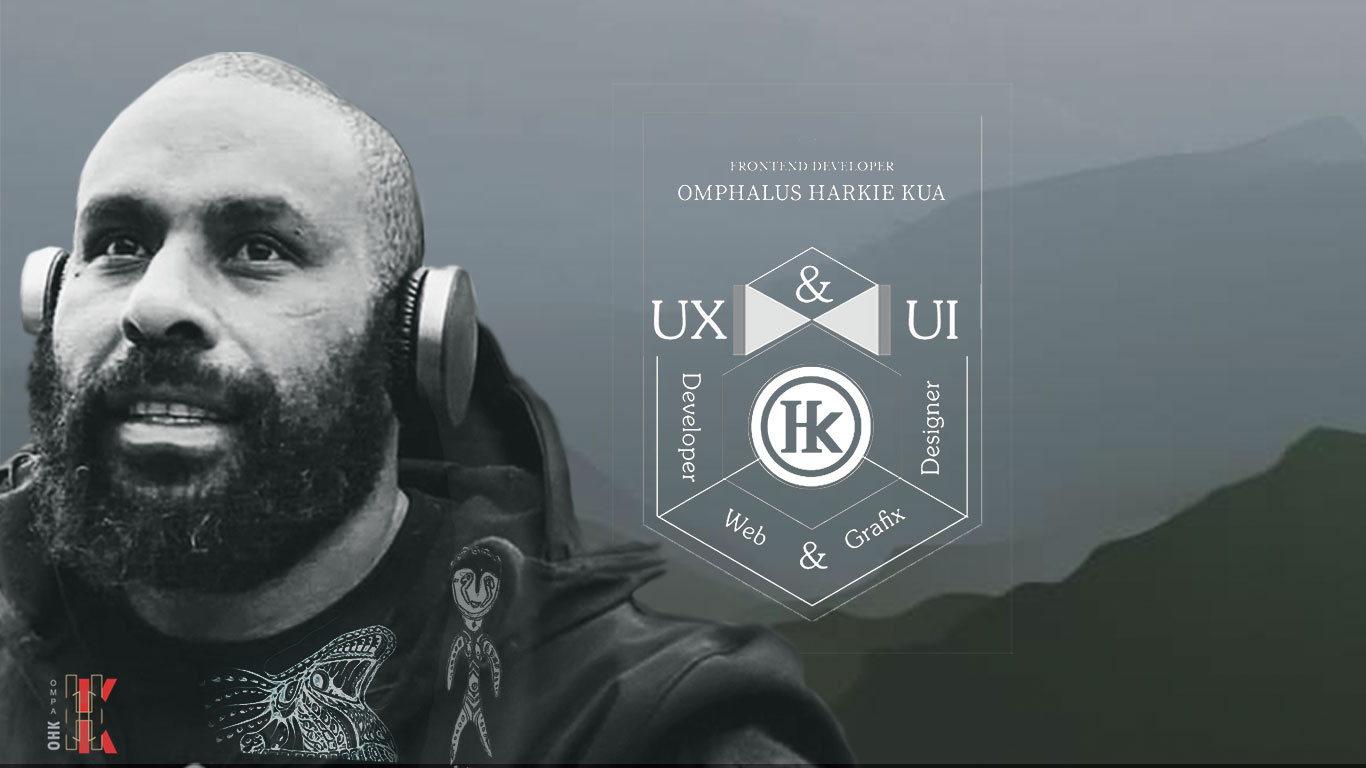
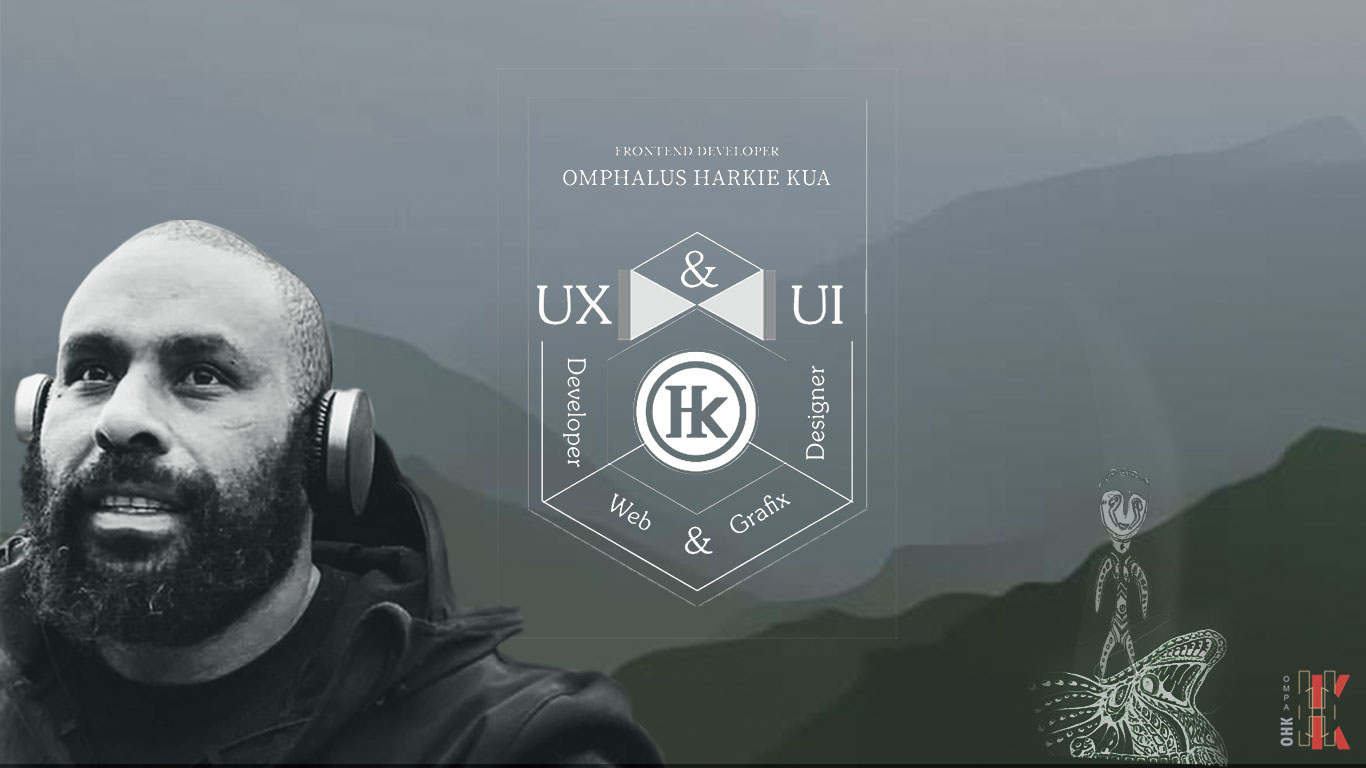
Updates

diff --git a/css/main.css b/css/main.css
@@ -53,9 +53,6 @@
       padding-bottom: 4rem; } }
   .content-wrapper .home__box-one {
     width: 100%;
-    background: repeating-linear-gradient(45deg, #ffffff, #f1f2ec 100px), url(../img/pattern.jpg) center center;
-    background-size: cover;
-    background-repeat: no-repeat;
     display: -webkit-box;
     display: -ms-flexbox;
     display: flex;
@@ -63,10 +60,14 @@
     -webkit-box-direction: normal;
         -ms-flex-direction: column;
             flex-direction: column;
-    justify-self: center; }
+    justify-self: center;
+    margin-top: -2rem; }
     @media only screen and (device-width: 1rem), screen and (orientation: landscape) {
       .content-wrapper .home__box-one {
         padding: 0 5.5rem; } }
+    @media only screen and (min-width: 1025px) and (orientation: landscape) {
+      .content-wrapper .home__box-one {
+        margin-top: -5.5rem; } }
     .content-wrapper .home__box-one .spear {
       width: 100%;
       -ms-flex-item-align: center;
@@ -77,19 +78,20 @@
   .content-wrapper .home__box-two {
     padding: 8px;
     padding-top: 1rem;
-    padding: 1rem 0 0 1rem;
     width: 100%;
     background: #ffffff; }
     @media only screen and (min-width: 640px) and (orientation: portrait) {
       .content-wrapper .home__box-two {
         padding: 1rem 0 0 2rem; } }
+    @media only screen and (min-width: 1025px) and (orientation: landscape) {
+      .content-wrapper .home__box-two {
+        padding: 2.3rem 0; } }
     .content-wrapper .home__box-two h1 {
       color: #292b20;
       font-size: 1.75rem;
       line-height: 2rem;
       text-transform: capitalize;
-      text-align: left;
-      padding-left: 8px;
+      text-align: center;
       width: 100%;
       font-family: 'DM Serif Display', serif; }
       @media only screen and (min-width: 640px) and (orientation: portrait) {
@@ -97,28 +99,39 @@
           font-size: 2rem; } }
       @media only screen and (min-width: 1025px) and (orientation: landscape) {
         .content-wrapper .home__box-two h1 {
-          background: #ffffff;
-          padding: 1rem 1rem 0 0;
-          text-align: left;
+          text-align: center;
           margin: 0;
-          font-size: 1.8rem; } }
+          font-size: 2.5rem;
+          line-height: 2.2rem; } }
     .content-wrapper .home__box-two h3 {
-      font-size: 0.76rem;
+      font-size: 0.88rem;
       line-height: 1.24em;
-      text-align: left;
-      padding: 0.4rem;
+      text-align: center;
       font-weight: normal;
       font-family: "Roboto Condensed", sans-serif; }
+      @media only screen and (device-width: 1rem), screen and (orientation: landscape) {
+        .content-wrapper .home__box-two h3 {
+          font-size: 0.88rem;
+          line-height: 1rem; } }
       @media only screen and (min-width: 640px) and (orientation: portrait) {
         .content-wrapper .home__box-two h3 {
-          line-height: 0; } }
-      @media only screen and (min-width: 1024px) and (orientation: landscape) {
+          font-size: 1rem; } }
+      @media only screen and (min-width: 1025px) and (orientation: landscape) {
         .content-wrapper .home__box-two h3 {
-          line-height: 0; } }
+          font-size: 1.2rem;
+          line-height: 1.43rem;
+          margin-top: 1rem; } }
     .content-wrapper .home__box-two span {
       color: #5f6d70;
       font-size: 0.69rem;
       text-transform: lowercase; }
+      @media only screen and (min-width: 640px) and (orientation: portrait) {
+        .content-wrapper .home__box-two span {
+          font-size: 0.87rem;
+          line-height: 1.2rem; } }
+      @media only screen and (min-width: 1025px) and (orientation: landscape) {
+        .content-wrapper .home__box-two span {
+          font-size: 1.1rem; } }
   .content-wrapper .home__box-three {
     background: #f9f3f3; }
     @media only screen and (min-width: 1025px) and (orientation: landscape) {
@@ -183,7 +196,7 @@
   cursor: pointer; }
   @media only screen and (device-width: 1rem), screen and (orientation: landscape) {
     .menu-btn {
-      width: 14%; } }
+      width: 19%; } }
   @media only screen and (min-width: 640px) and (orientation: portrait) {
     .menu-btn {
       z-index: 9999;
@@ -1029,6 +1042,27 @@
   .content-wrapper .projects .block {
     width: 100%; }
 
+@media only screen and (device-width: 1rem), screen and (orientation: landscape) {
+  .content-wrapper .socieal-icons {
+    -webkit-box-orient: horizontal;
+    -webkit-box-direction: normal;
+        -ms-flex-direction: row;
+            flex-direction: row;
+    -webkit-box-pack: center;
+        -ms-flex-pack: center;
+            justify-content: center;
+    overflow: auto;
+    -ms-flex-pack: distribute;
+        justify-content: space-around;
+    border-radius: 4px;
+    padding: 7px 14rem; } }
+  @media only screen and (device-width: 1rem) and (min-width: 1024px) and (orientation: landscape), only screen and (orientation: landscape) and (min-width: 1024px) and (orientation: landscape) {
+    .content-wrapper .socieal-icons {
+      height: 78%;
+      -webkit-box-pack: justify;
+          -ms-flex-pack: justify;
+              justify-content: space-between; } }
+
 .content-wrapper .contact {
   display: -webkit-box;
   display: -ms-flexbox;
@@ -1471,10 +1505,12 @@ p {
       border-radius: 0.05rem;
       line-height: 1.7rem;
       letter-spacing: 0.031rem;
-      font-size: 1.03rem; } }
+      font-size: 1.03rem;
+      padding: 1rem 3rem; } }
   @media only screen and (min-width: 1024px) and (orientation: landscape) {
     p {
-      font-size: 0.93rem; } }
+      font-size: 0.93rem;
+      padding: 1rem 2rem; } }
   @media only screen and (min-width: 1025px) and (orientation: landscape) {
     p {
       -webkit-box-shadow: none;
@@ -1572,8 +1608,11 @@ footer {
       -webkit-box-pack: center;
           -ms-flex-pack: center;
               justify-content: center;
-      padding: 0;
-      overflow: auto; } }
+      overflow: auto;
+      -ms-flex-pack: distribute;
+          justify-content: space-around;
+      border-radius: 4px;
+      padding: 7px 14rem; } }
   @media only screen and (min-width: 1024px) and (orientation: landscape) {
     .social-icons {
       position: fixed;

diff --git a/index.html b/index.html
@@ -492,7 +492,8 @@
           <div class="home__box-two">
             <h1>Omphalus H. Kua</h1>
             <h3>
-              Web and Graphics -
+              Web and Grafix -
+              <br />
               <span class="dark">Front-end </span> Developer
               <span class="dark"> living in New Zealand</span>
             </h3>
@@ -505,12 +506,12 @@
             responsive mobile-first and web-app development. <br /><br />
             <span>
               At heart I am a designer, with a can do attitude. I can do photo
-              manipulation to creating graphic design and animation,
-              building websites from scratch to using WordPress and other
-              popular CMS's. Lately, my focus has been on mobile and web-app
-              responsive design and development with essential modern UI/UX
-              logic integration in place. Design and code has become popular in
-              my world of learning and experience.
+              manipulation to creating graphic design and animation, building
+              websites from scratch to using WordPress and other popular CMS's.
+              Lately, my focus has been on mobile and web-app responsive design
+              and development with essential modern UI/UX logic integration in
+              place. Design and code has become popular in my world of learning
+              and experience.
             </span>
           </p>
           <!-- 
